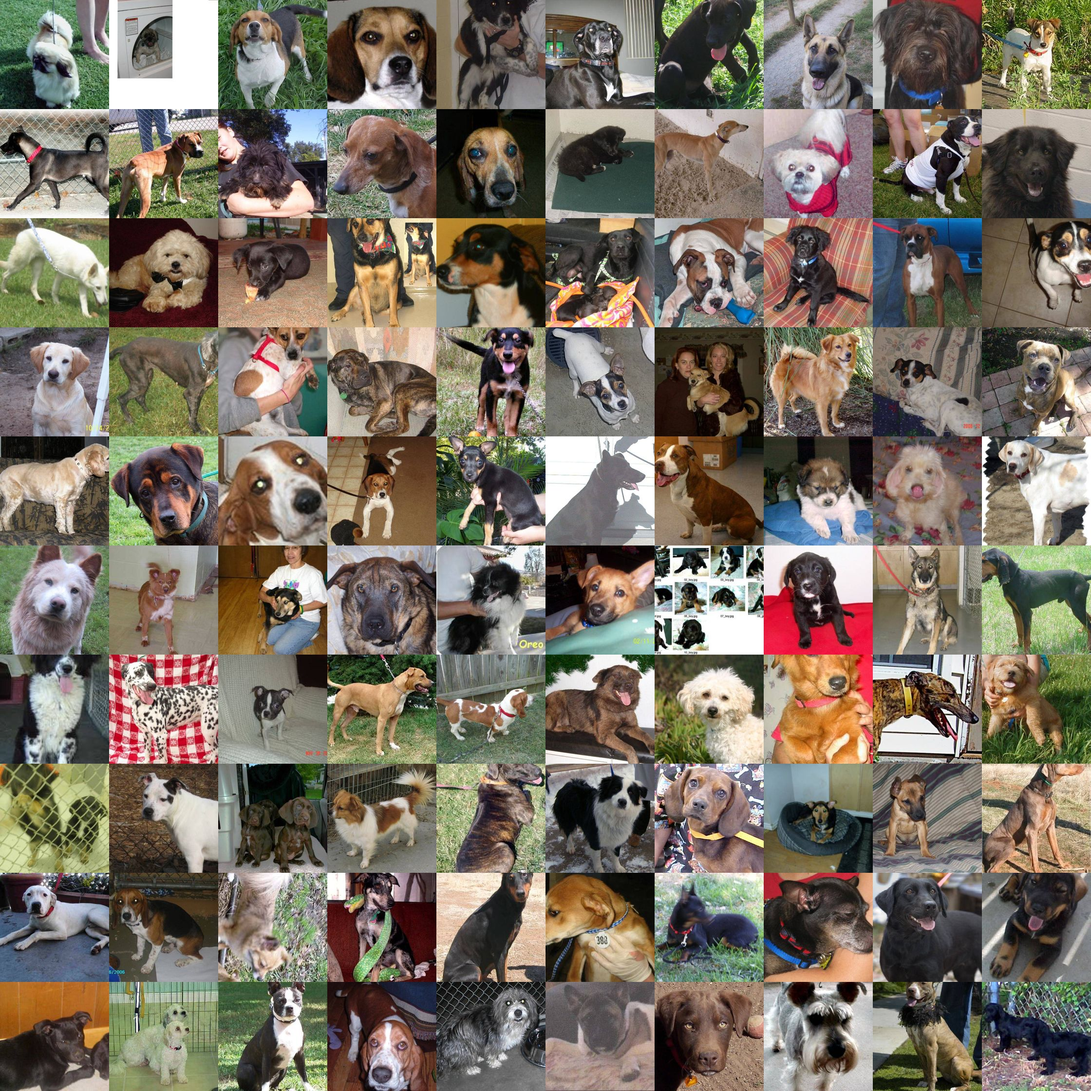
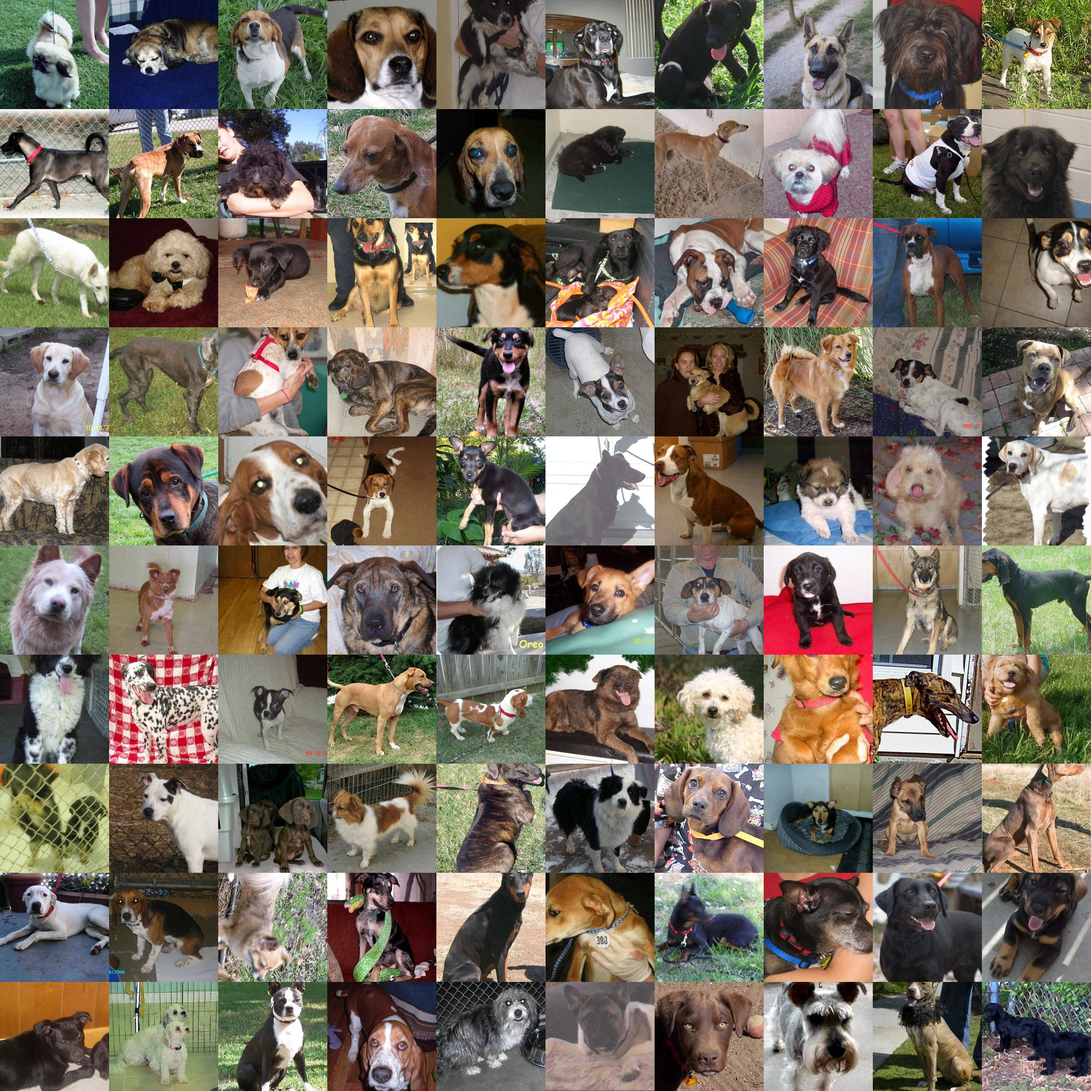
Add files via upload

Changed region(s): [[0.5938, 0.5, 0.7188, 0.625], [0.0938, 0.0, 0.2188, 0.125]]

diff --git a/teach.html b/teach.html
@@ -15,18 +15,20 @@
   .cls h3 { margin: 0 0 8px; font-size: 16px; font-weight: 800; display: flex; justify-content: space-between; align-items: baseline; }
   .cls h3 span { font-size: 13px; color: var(--muted); font-weight: 700; }
   .thumbs { display: grid; grid-template-columns: repeat(10, 1fr); gap: 3px; }
-  .thumbs img { width: 100%; aspect-ratio: 1; object-fit: cover; border-radius: 4px; display: block; transition: .2s; }
-  .thumbs img.off { opacity: .15; filter: grayscale(1); }
+  .tile { display: block; width: 100%; aspect-ratio: 1; background-repeat: no-repeat; background-color: var(--soft); }
+  .thumbs .tile { border-radius: 4px; transition: .2s; }
+  .thumbs .tile.off { opacity: .15; filter: grayscale(1); }
   .card h3 .sub { font-size: 13.5px; color: var(--muted); font-weight: 700; margin-left: 8px; }
   .score { font-size: 30px; font-weight: 800; color: var(--accent-dark); line-height: 1.2; }
-  .tests { display: grid; grid-template-columns: repeat(auto-fill, minmax(104px, 1fr)); gap: 10px; margin-top: 8px; }
+  .tests { display: grid; grid-template-columns: repeat(auto-fill, minmax(118px, 1fr)); gap: 10px; margin-top: 8px; }
   .tests figure { margin: 0; }
-  .tests img { width: 100%; aspect-ratio: 1; object-fit: cover; border-radius: 8px; display: block; border: 3px solid #2f9e6d; }
-  .tests figure.bad img { border-color: var(--accent); }
-  .tests figcaption { font-size: 13.5px; font-weight: 800; margin-top: 4px; color: #2f7d58; }
+  .tests .tile { border-radius: 8px; border: 3px solid #2f9e6d; background-origin: border-box; }
+  .tests figure.bad .tile { border-color: var(--accent); }
+  .tests figcaption { font-size: 13.5px; font-weight: 800; margin-top: 4px; color: #2f7d58; white-space: nowrap; }
   .tests figure.bad figcaption { color: var(--accent-dark); }
   .tests figcaption span { font-weight: 700; color: var(--muted); margin-left: 4px; }
   .subh { font-size: 14px; font-weight: 800; color: var(--muted); margin: 14px 0 2px; }
+  .subh .note { font-weight: 400; font-size: 13px; margin-left: 6px; }
   .mine { display: grid; grid-template-columns: minmax(0, 1fr) minmax(0, 1fr); gap: 20px; align-items: start; }
   @media (max-width: 1000px) { .mine { grid-template-columns: 1fr; } }
   #mineView { display: block; max-height: 240px; max-width: 100%; border-radius: 8px; margin: 10px auto 0; }
@@ -152,7 +154,8 @@
     if (featCache[it.key]) return Promise.resolve(featCache[it.key]);
     if (!pending[it.key]) pending[it.key] = queue = queue.then(async () => {
       if (!it.key.startsWith(setName)) { delete pending[it.key]; return null; } // 다른 데이터로 바꿨으면 건너뜀
-      if (!featCache[it.key]) featCache[it.key] = await computeFeat(it.canvas);
+      await AI.sleep(0); // 한 장마다 화면이 멈추지 않게 잠깐 쉼 (안 쉬면 계산이 끝날 때까지 클릭이 먹통)
+      if (!featCache[it.key]) featCache[it.key] = await computeFeat(it.canvas());
       updatePrep();
       return featCache[it.key];
     });
@@ -165,17 +168,21 @@
     $("#prep").textContent = done < all.length ? `사진 미리 살펴보는 중 ${done} / ${all.length}` : "";
   }
 
-  /* 사진 묶음(한 장에 100장)에서 224×224 사진 잘라 쓰기 : 앞 20장은 시험용, 나머지 80장은 학습용 */
-  const sprites = {};
+  /* 사진 묶음(한 장에 100장) : 앞 20장은 시험용, 나머지 80장은 학습용
+     화면에는 묶음 그림을 그대로 잘라 보여 주고(빠름), AI에 넣을 때만 224×224로 잘라 씀 */
+  const sprites = {}; // 이름 → Promise<canvas>
+  const spriteOf = (file) => (sprites[file] = sprites[file] || AI.urlToCanvas(DIR + file, 99999));
   async function loadSet(name) {
-    const T = SETS.tile, C = SETS.cols;
+    const T = SETS.tile, C = SETS.cols, R = Math.ceil((SETS.test + SETS.train) / C);
     return Promise.all(SETS.sets[name].map(async (cls, ci) => {
-      const key = name + ci;
-      if (!sprites[key]) sprites[key] = await AI.urlToCanvas(DIR + cls.sprite, 99999);
+      const sp = await spriteOf(cls.sprite);
       const items = Array.from({ length: SETS.test + SETS.train }, (_, i) => {
-        const c = document.createElement("canvas"); c.width = T; c.height = T;
-        c.getContext("2d").drawImage(sprites[key], (i % C) * T, Math.floor(i / C) * T, T, T, 0, 0, T, T);
-        return { key: `${key}-${i}`, canvas: c, url: c.toDataURL("image/jpeg", 0.8) };
+        const col = i % C, row = Math.floor(i / C);
+        return {
+          key: `${name}${ci}-${i}`,
+          css: `background-image:url('${DIR + cls.sprite}');background-position:${(col / (C - 1)) * 100}% ${(row / (R - 1)) * 100}%;background-size:${C * 100}% ${R * 100}%`,
+          canvas() { const c = document.createElement("canvas"); c.width = T; c.height = T; c.getContext("2d").drawImage(sp, col * T, row * T, T, T, 0, 0, T, T); return c; },
+        };
       });
       return { name: cls.name, try: cls.try, test: items.slice(0, SETS.test), train: items.slice(SETS.test) };
     }));
@@ -184,7 +191,7 @@
   function drawClasses() {
     if (!data) return;
     $("#classes").innerHTML = data.map((c) => `<div class="cls"><h3>${c.name}<span>학습 사진 ${nTrain}장</span></h3>
-        <div class="thumbs">${c.train.map((f, i) => `<img src="${f.url}" class="${i < nTrain ? "" : "off"}" alt="">`).join("")}</div></div>`).join("");
+        <div class="thumbs">${c.train.map((f, i) => `<i class="tile ${i < nTrain ? "" : "off"}" style="${f.css}"></i>`).join("")}</div></div>`).join("");
   }
   function resetResults() {
     clf = null;
@@ -278,11 +285,11 @@
           (best === ci ? right : wrong).push({ f, said: data[best].name, p: probs[best] });
         }
       }
-      const fig = (r, ok) => `<figure class="${ok ? "" : "bad"}"><img src="${r.f.url}" alt=""><figcaption>${ok ? "맞음" : "틀림"}: ${r.said}<span>${AI.pct(r.p)}</span></figcaption></figure>`;
+      const fig = (r, ok) => `<figure class="${ok ? "" : "bad"}"><i class="tile" style="${r.f.css}"></i><figcaption>${ok ? "맞음" : "틀림"}: ${r.said}<span>${AI.pct(r.p)}</span></figcaption></figure>`;
       const ok = right.length;
       $("#score").textContent = `${total}장 중 ${ok}장 맞힘 · ${Math.round((ok / total) * 100)}점`;
       $("#testSub").textContent = `종류마다 ${nTrain}장 학습`;
-      $("#wrongTitle").textContent = wrong.length ? `틀린 사진 ${wrong.length}장` : "틀린 사진이 없어요!";
+      $("#wrongTitle").innerHTML = wrong.length ? `틀린 사진 ${wrong.length}장 <span class="note">사진 아래 글자는 AI가 답한 것이에요</span>` : "틀린 사진이 없어요!";
       $("#wrong").innerHTML = wrong.map((r) => fig(r, false)).join("");
       // 맞힌 사진은 종류마다 3장씩만
       $("#right").innerHTML = data.flatMap((c) => right.filter((r) => c.test.includes(r.f)).slice(0, 3)).map((r) => fig(r, true)).join("");
@@ -308,7 +315,7 @@
     mineFeat = await computeFeatQueued(c);
     showMine();
   };
-  const computeFeatQueued = (c) => (queue = queue.then(() => computeFeat(c)));
+  const computeFeatQueued = (c) => (queue = queue.then(async () => { await AI.sleep(0); return computeFeat(c); }));
   AI.setupPicker({ drop: $("#drop"), maxSide: 800, onImage: onMine, onError: (m) => err.show(m) });
   function setupTry() {
     const samples = data.flatMap((c) => c.try.map((f, j) => ({ src: DIR + f, label: `${c.name} 예시 ${j + 1}` })));
@@ -330,6 +337,7 @@
 
   try {
     SETS = await (await fetch(DIR + "sets.json")).json();
+    Object.values(SETS.sets).flat().forEach((c) => spriteOf(c.sprite)); // 두 데이터 사진을 미리 받아 둠
     loader.show("AI 모델 불러오는 중", "11MB", 0);
     await AI.loadModel(MODEL, (p) => loader.progress(p));
     loader.hide();

diff --git a/landmarks.html b/landmarks.html
@@ -6,6 +6,11 @@
 <title>얼굴·몸 점 찍기</title>
 <link rel="stylesheet" href="assets/css/style.css">
 <style>
+  .lmrow { display: flex; gap: 14px; justify-content: center; align-items: flex-start; }
+  .lmrow canvas.view { margin: 0; min-width: 0; max-width: 100%; }
+  #zoomBox { flex: 0 0 auto; width: min(320px, 38%); text-align: center; }
+  #zoom { width: 100%; border-radius: 8px; display: block; margin-bottom: 4px; }
+  .lmrow:has(#zoomBox:not([hidden])) canvas.view { max-width: calc(62% - 14px); }
   .meters { display: grid; grid-template-columns: repeat(auto-fill, minmax(140px, 1fr)); gap: 10px; margin-top: 14px; }
   .meter { background: #faf9f6; border: 1px solid var(--line); border-radius: 12px; padding: 10px 12px; }
   .meter span { font-size: 13px; color: var(--muted); font-weight: 700; }
@@ -53,7 +58,10 @@
     <div class="stage" id="stage">
       <div class="status" id="status"></div>
       <div class="empty" id="empty">예제 사진을 눌러 시작하세요</div>
-      <canvas class="view" id="view" hidden></canvas>
+      <div class="lmrow">
+        <canvas class="view" id="view" hidden></canvas>
+        <div id="zoomBox" hidden><canvas id="zoom"></canvas><div class="small">얼굴 확대</div></div>
+      </div>
       <div class="meters" id="meters"></div>
     </div>
   </section>
@@ -149,6 +157,39 @@ function meters(list) {
     `<div class="meter"><span>${name}</span><b>${val}</b>${pct != null ? `<i><u style="width:${Math.round(pct * 100)}%"></u></i>` : ""}</div>`).join("");
 }
 
+// 얼굴 점 그리기 (원래 사진 · 확대 그림에 같이 사용)
+function drawFace(g, du, lm, W, H, lw) {
+  if (style === "mesh") {
+    du.drawConnectors(lm, FaceLandmarker.FACE_LANDMARKS_TESSELATION, { color: "rgba(255,255,255,0.6)", lineWidth: lw });
+    du.drawConnectors(lm, FaceLandmarker.FACE_LANDMARKS_FACE_OVAL, { color: "#ee6b55", lineWidth: lw * 2 });
+  } else {
+    const line = (c, col) => du.drawConnectors(lm, c, { color: col, lineWidth: lw * 3 });
+    line(FaceLandmarker.FACE_LANDMARKS_LEFT_EYE, "#3b82c4"); line(FaceLandmarker.FACE_LANDMARKS_RIGHT_EYE, "#3b82c4");
+    line(FaceLandmarker.FACE_LANDMARKS_LEFT_EYEBROW, "#8e5bd0"); line(FaceLandmarker.FACE_LANDMARKS_RIGHT_EYEBROW, "#8e5bd0");
+    line(FaceLandmarker.FACE_LANDMARKS_LIPS, "#ee6b55");
+    g.fillStyle = "#e0a020"; g.beginPath(); g.arc(lm[1].x * W, lm[1].y * H, lw * 3, 0, 7); g.fill();
+  }
+}
+// 가장 큰 얼굴을 잘라서 크게 보여 주기
+function drawZoom(img, faces) {
+  const box = $("#zoomBox");
+  if (!faces.length) { box.hidden = true; return; }
+  const W = img.width, H = img.height;
+  const size = (lm) => Math.max(...lm.map((q) => q.x)) - Math.min(...lm.map((q) => q.x));
+  const lm = faces.reduce((a, b) => (size(b) > size(a) ? b : a));
+  const xs = lm.map((q) => q.x * W), ys = lm.map((q) => q.y * H);
+  const side = Math.max(Math.max(...xs) - Math.min(...xs), Math.max(...ys) - Math.min(...ys)) * 1.35;
+  const x0 = (Math.min(...xs) + Math.max(...xs)) / 2 - side / 2, y0 = (Math.min(...ys) + Math.max(...ys)) / 2 - side / 2;
+  const Z = 480, z = $("#zoom"), zg = z.getContext("2d");
+  z.width = z.height = Z;
+  zg.fillStyle = "#000"; zg.fillRect(0, 0, Z, Z);
+  zg.imageSmoothingQuality = "high";
+  zg.drawImage(img, x0, y0, side, side, 0, 0, Z, Z);
+  const mapped = lm.map((q) => ({ x: (q.x * W - x0) / side, y: (q.y * H - y0) / side, z: q.z }));
+  drawFace(zg, new DrawingUtils(zg), mapped, Z, Z, 1.1);
+  box.hidden = false;
+}
+
 function drawResult(img, res) {
   view.width = img.width; view.height = img.height;
   ctx.drawImage(img, 0, 0);
@@ -160,18 +201,9 @@ function drawResult(img, res) {
     faces.forEach((lm) => {
       // 얼굴 크기에 맞춰 선 굵기 정하기 (작은 얼굴은 가는 선)
       const fw = (Math.max(...lm.map((q) => q.x)) - Math.min(...lm.map((q) => q.x))) * W;
-      const lw = Math.max(0.6, Math.min(3, fw / 160));
-      if (style === "mesh") {
-        du.drawConnectors(lm, FaceLandmarker.FACE_LANDMARKS_TESSELATION, { color: "rgba(255,255,255,0.55)", lineWidth: lw });
-        du.drawConnectors(lm, FaceLandmarker.FACE_LANDMARKS_FACE_OVAL, { color: "#ee6b55", lineWidth: lw * 2 });
-      } else {
-        const line = (c, col) => du.drawConnectors(lm, c, { color: col, lineWidth: lw * 3 });
-        line(FaceLandmarker.FACE_LANDMARKS_LEFT_EYE, "#3b82c4"); line(FaceLandmarker.FACE_LANDMARKS_RIGHT_EYE, "#3b82c4");
-        line(FaceLandmarker.FACE_LANDMARKS_LEFT_EYEBROW, "#8e5bd0"); line(FaceLandmarker.FACE_LANDMARKS_RIGHT_EYEBROW, "#8e5bd0");
-        line(FaceLandmarker.FACE_LANDMARKS_LIPS, "#ee6b55");
-        ctx.fillStyle = "#e0a020"; ctx.beginPath(); ctx.arc(lm[1].x * W, lm[1].y * H, lw * 3, 0, 7); ctx.fill();
-      }
+      drawFace(ctx, du, lm, W, H, Math.max(0.6, Math.min(3, fw / 160)));
     });
+    drawZoom(img, faces);
     info.push(["찾은 얼굴", faces.length + "개"]);
     const bs = res.faceBlendshapes && res.faceBlendshapes[0];
     if (bs) {
@@ -180,6 +212,7 @@ function drawResult(img, res) {
       info.push(["웃는 정도", AI.pct(smile), smile], ["입 벌린 정도", AI.pct(jaw), jaw], ["눈 감은 정도", AI.pct(blink), blink]);
     }
   } else {
+    $("#zoomBox").hidden = true;
     const ps = res.landmarks || [];
     ps.forEach((lm, i) => {
       du.drawConnectors(lm, PoseLandmarker.POSE_CONNECTIONS, { color: AI.color(i), lineWidth: lw * 3 });

diff --git a/upscale.html b/upscale.html
@@ -8,7 +8,7 @@
 <style>
   .step { display: inline-grid; place-items: center; width: 20px; height: 20px; border-radius: 50%; background: var(--accent); color: #fff; font-size: 12.5px; margin-right: 7px; vertical-align: 1px; }
   .opt { font-weight: 400; font-size: 13px; }
-  #preView { image-rendering: auto; }
+  #preView { image-rendering: auto; max-height: none; }
 </style>
 </head>
 <body>
@@ -32,8 +32,8 @@
     </section>
     <section>
       <h2><span class="step">3</span>AI로 선명하게 만들기</h2>
-      <button class="btn block" id="go" type="button" disabled>AI로 4배 키우기</button>
-      <p class="small" style="margin:8px 0 0">가로 · 세로를 4배로 키우면서 흐린 부분을 선명하게 다시 그려요.</p>
+      <button class="btn block" id="go" type="button" disabled>AI 적용하기</button>
+      <p class="small" style="margin:8px 0 0">AI가 가로 · 세로를 4배로 키우면서 흐린 부분을 선명하게 다시 그려요.</p>
     </section>
     <section class="about">
       <h2>이 기술은</h2>
@@ -122,12 +122,16 @@
     shrunk = Math.max(src.width, src.height) > MAX;
     small = fit(src, MAX);
     if (BLUR[blur]) small = await jpeg(fit(src, BLUR[blur].side), BLUR[blur].q);
-    plain = resize(small, small.width * 4, small.height * 4); // 그냥 4배 확대
+    // 화면에 보이는 크기는 '그대로'일 때와 같게 (흐리게 만들어도 크기는 그대로, 흐려진 것만 보이게)
+    const base = fit(src, MAX);
+    plain = resize(small, base.width * 4, base.height * 4); // 그냥 확대
     aiOut = null;
     const v = $("#preView");
     v.width = plain.width; v.height = plain.height;
     v.getContext("2d").drawImage(plain, 0, 0);
     $("#empty").hidden = true; $("#out").hidden = true; $("#pre").hidden = false;
+    const avail = $("#pre").clientWidth || 800, vh = window.innerHeight * 0.68;
+    v.style.width = Math.min(avail, plain.width * (vh / plain.height)) + "px";
     $("#preInfo").innerHTML = `AI에 넣을 사진이에요 (${small.width}×${small.height}).` +
       (shrunk && !BLUR[blur] ? " 사진이 커서 긴 쪽을 " + MAX + "px로 줄였어요." : "") + "<br>왼쪽 <b>3</b>번 버튼을 누르세요.";
     $("#status").innerHTML = `<span class="pill">${small.width}×${small.height}</span>`;
@@ -140,7 +144,7 @@
     err.hide();
     try {
       const m = await getModel();
-      loader.show("AI가 사진을 키우는 중", `${small.width}×${small.height} → ${small.width * 4}×${small.height * 4}`);
+      loader.show("AI가 사진을 선명하게 만드는 중", `${small.width}×${small.height} → ${small.width * 4}×${small.height * 4}`);
       await AI.nextFrame(); await AI.sleep(30);
       const t0 = performance.now();
       aiOut = await esrgan(m, small);
@@ -154,7 +158,7 @@
       err.show("실행 중 문제가 생겼어요: " + (e.message || e));
     }
   }
-  const show = () => aiOut && cmp.set(plain, aiOut, "그냥 4배 확대", "AI로 4배 키움");
+  const show = () => aiOut && cmp.set(plain, aiOut.width === plain.width ? aiOut : resize(aiOut, plain.width, plain.height), "그냥 확대", "AI 적용");
   AI.$$("#blurSel button").forEach((b) => b.addEventListener("click", () => {
     AI.$$("#blurSel button").forEach((x) => x.classList.toggle("on", x === b));
     blur = +b.dataset.k; prepare();

diff --git a/cartoon.html b/cartoon.html
@@ -72,7 +72,8 @@
       loader.show("AI 모델 불러오는 중", "9MB", 0);
       const m = await AI.loadModel(url, (p) => loader.progress(p));
       // 긴 쪽을 정한 크기로, 가로 · 세로는 8의 배수로
-      const L = 512, r = Math.min(1, L / Math.max(src.width, src.height));
+      // 풍경은 작게 처리하면 결과가 뿌옇게 나와서 더 크게(768) 처리
+      const L = style === "scene" ? 768 : 512, r = Math.min(1, L / Math.max(src.width, src.height));
       const w = Math.max(64, Math.round((src.width * r) / 8) * 8), h = Math.max(64, Math.round((src.height * r) / 8) * 8);
       input = document.createElement("canvas"); input.width = w; input.height = h;
       const ig = input.getContext("2d", { willReadFrequently: true }); ig.imageSmoothingQuality = "high";
@@ -119,7 +120,7 @@
   AI.setupPicker({
     drop: $("#drop"), samplesEl: $("#samples"), maxSide: 1280,
     samples: [
-      { src: "assets/samples/cartoon/woman.jpg", label: "인물", style: "face" },
+      { src: "assets/samples/cartoon/fan.jpg", label: "응원하는 사람", style: "face" },
       { src: "assets/samples/cartoon/kids.jpg", label: "아이들", style: "face" },
       { src: "assets/samples/cartoon/lake.jpg", label: "호수와 산", style: "scene" },
       { src: "assets/samples/cartoon/venice.jpg", label: "베네치아 운하", style: "scene" },
